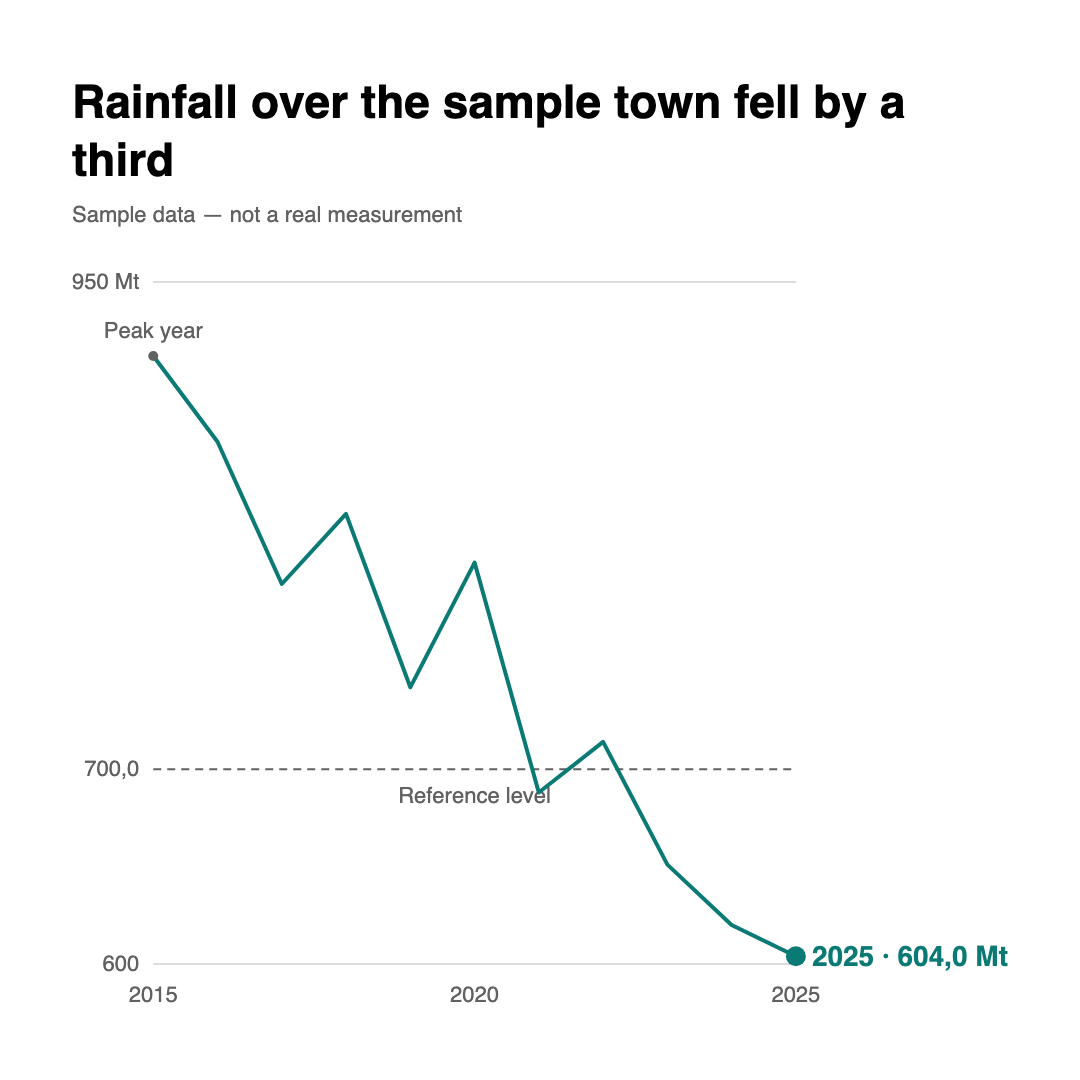
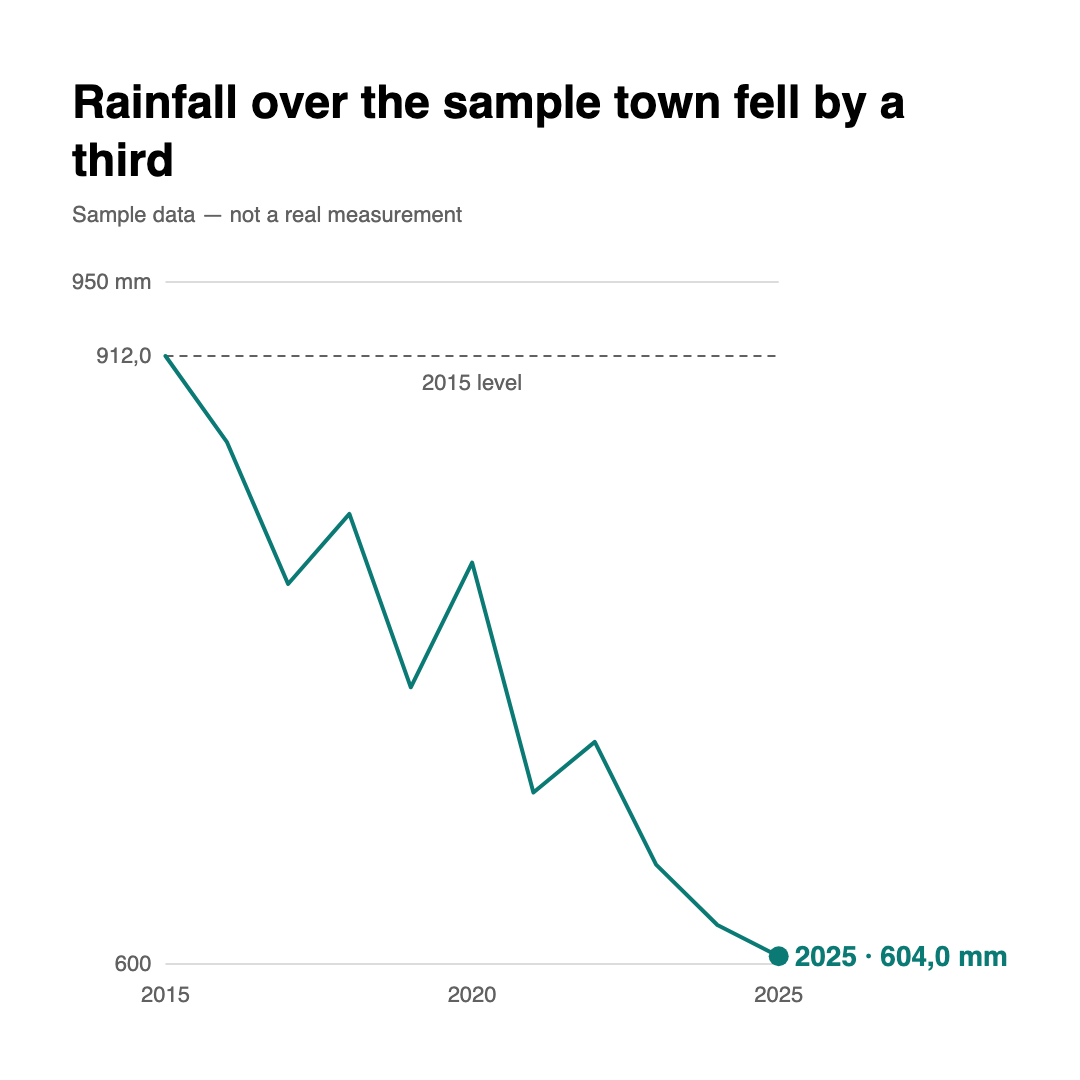
fix(twin-chart-video): ground reference, drop uninformative peak label, hoist unit constant, clean up temp files

diff --git a/twin/skills/twin-chart-video/assets/EmissionsVideo.tsx b/twin/skills/twin-chart-video/assets/EmissionsVideo.tsx
@@ -44,8 +44,14 @@ const SOURCE = { fontSize: 22, fontWeight: 400 };
 const AXIS = { fontSize: 22, fontWeight: 400 };
 const LABEL = { fontSize: 28, fontWeight: 600 };
 const NOTE = { fontSize: 22, fontWeight: 400 };
-const UNIT = "Mt";
 export const FONT_FAMILY = "Helvetica, Arial, sans-serif";
+
+// ===== CONFIG — edit for your story =====
+// Everything between here and the closing marker is this beat's own words and its own editorial
+// calls — the next beat replaces every value below.
+/** Unit of measurement for this series. Specific to each story. */
+const UNIT = "mm";
+// =========================================
 
 export type EmissionsVideoProps = {
   data: Reading[];
@@ -58,7 +64,6 @@ export type EmissionsVideoProps = {
   grid: string;
   reference: number;
   referenceLabel: string;
-  peakLabel: string;
   timing?: BeatTiming;
 };
 
@@ -139,7 +144,6 @@ export function EmissionsVideo({
   grid,
   reference,
   referenceLabel,
-  peakLabel,
   timing = CO2_TIMING,
 }: EmissionsVideoProps) {
   const frame = useCurrentFrame();
@@ -204,16 +208,6 @@ export function EmissionsVideo({
           .y((p) => p.y)
           .digits(1)(drawn)!
       : null;
-
-  // The peak is context and it arrives when the line reaches it — data arriving is the motion
-  // event, so a marker for 1973 that appeared in 1962 would be pointing at nothing.
-  const peakFraction = g.points.indexOf(g.peak) / (g.points.length - 1);
-  const peakOpacity = interpolate(
-    reveal,
-    [peakFraction, peakFraction + 0.06],
-    [0, 1],
-    { extrapolateLeft: "clamp", extrapolateRight: "clamp" },
-  );
 
   // The subject lands on its own. Damping 200 against stiffness 120 is critically damped: the dot
   // settles onto its coordinate and never passes it, because for the frames it overshot it would
@@ -343,22 +337,6 @@ export function EmissionsVideo({
           strokeLinejoin="round"
           strokeLinecap="round"
         />
-      ) : null}
-
-      {/* The peak is context, not the subject: muted, marked, and silent about its own value. */}
-      {peakOpacity > 0 ? (
-        <g opacity={peakOpacity}>
-          <circle cx={g.peak.x} cy={g.peak.y} r={5} fill={muted} />
-          <text
-            x={g.peak.x}
-            y={g.peak.y - 18}
-            fill={muted}
-            fontSize={NOTE.fontSize}
-            textAnchor="middle"
-          >
-            {peakLabel}
-          </text>
-        </g>
       ) : null}
 
       {subjectRadius > 0 ? (

diff --git a/twin/skills/twin-chart-video/assets/Root.tsx b/twin/skills/twin-chart-video/assets/Root.tsx
@@ -28,7 +28,6 @@ const CO2_PLACEHOLDER: EmissionsVideoProps = {
   grid: "#D1D1D1",
   reference: 32.5,
   referenceLabel: "Placeholder",
-  peakLabel: "Placeholder",
 };
 
 export function RemotionRoot() {
